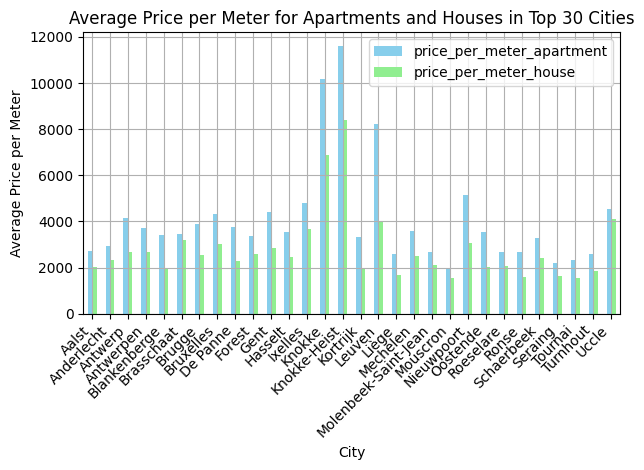
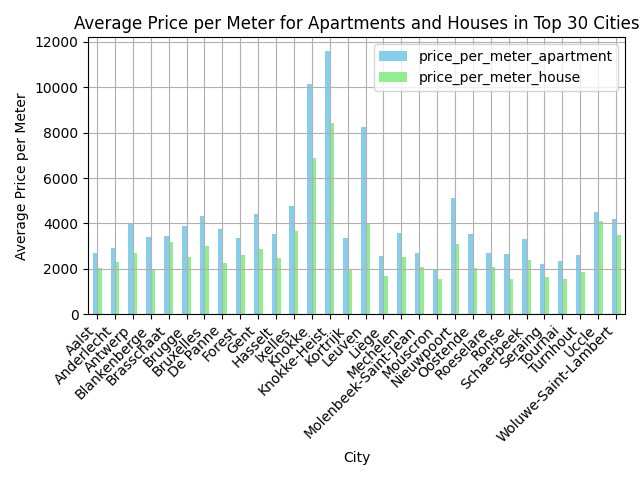
update Mahsa from  6 March

diff --git a/analysis/Distribution of Home Surface Types in Top Thirty Cities.py b/analysis/Distribution of Home Surface Types in Top Thirty Cities.py
@@ -1,0 +1,91 @@
+import pandas as pd
+import matplotlib.pyplot as plt
+
+# Read the data from the Excel file
+input_excel_file_path = r"C:\Users\afshi\Documents\GitHub\immo-eliza-DAMI-analysis\data\cleaned\version 3 data.xlsx"
+try:
+    df = pd.read_excel(input_excel_file_path)
+except Exception as e:
+    print("Error:", e)
+
+# Group by locality (city) and count the number of homes for each city
+homes_per_city = df['locality'].value_counts()
+
+# Sort cities by the number of homes in descending order and select the top thirty cities
+top_thirty_cities = homes_per_city.sort_values(ascending=False).head(30)
+
+# Filter the DataFrame to include only the top thirty cities
+df_top_thirty_cities = df[df['locality'].isin(top_thirty_cities.index)].copy()
+
+# Define function to categorize surface
+def categorize_surface(surface):
+    if surface < 50:
+        return "Less than 50"
+    elif 50 <= surface < 100:
+        return "50 - 100"
+    elif 100 <= surface < 200:
+        return "100-150"
+    elif 150 <= surface < 250:
+        return "150-200"
+    elif 250 <= surface < 300:
+        return "250-300"
+    elif 300 <= surface < 350:
+        return "300-350"
+    elif 350 <= surface < 400:
+        return "350-400"
+    elif 450 <= surface < 500:
+        return "450-500"
+    elif 550 <= surface < 600:
+        return "550-600"
+    else:
+        return "Greater than 600"
+
+# Apply categorization to create a new column using .loc to avoid the warning
+df_top_thirty_cities.loc[:, 'Surface Category'] = df_top_thirty_cities['surface'].apply(categorize_surface)
+
+# Group by Surface Category and locality (city), then count the occurrences
+grouped_counts = df_top_thirty_cities.groupby(['Surface Category', 'locality']).size().unstack(fill_value=0)
+
+# Specify the order of surface categories
+surface_categories_order = [
+    "Less than 50",
+    "50 - 100",
+    "100-150",
+    "150-200",
+    "250-300",
+    "300-350",
+    "350-400",
+    "450-500",
+    "550-600",
+    "Greater than 600"
+]
+
+# Sort the grouped_counts DataFrame based on the order of surface categories
+grouped_counts_sorted = grouped_counts.reindex(surface_categories_order)
+
+# Plot each surface category and save each plot separately
+for surface_category in surface_categories_order:
+    surface_distribution = grouped_counts_sorted.loc[surface_category].sort_values()
+    plt.figure(figsize=(10, 6))
+    surface_distribution.plot(kind='bar', color='skyblue')
+    plt.title(f'Distribution of Home Surface Types in Top Thirty Cities ({surface_category})')
+    plt.xlabel('City')
+    plt.ylabel('Number of Homes')
+    plt.xticks(rotation=45)
+    plt.tight_layout()
+    plt.savefig(f'distribution_surface_{surface_category}.png')  # Save each plot with a unique filename
+    plt.close()  # Close the plot to release memory
+
+# Combine all saved plots into one image
+import glob
+import cv2
+
+# Get all saved plot filenames
+plot_filenames = glob.glob('distribution_surface_*.png')
+
+# Combine plots into one image horizontally
+images = [cv2.imread(filename) for filename in plot_filenames]
+combined_image = cv2.hconcat(images)
+
+# Save the combined image
+cv2.imwrite('combined_distribution_surface_types.png', combined_image)

diff --git a/analysis/which cities have the biggest homes in the top 30 cities.py b/analysis/which cities have the biggest homes in the top 30 cities.py
@@ -1,0 +1,72 @@
+import pandas as pd
+import matplotlib.pyplot as plt
+
+# Read the data from the Excel file
+input_excel_file_path = r"C:\Users\afshi\Documents\GitHub\immo-eliza-DAMI-analysis\data\cleaned\version 3 data.xlsx"
+try:
+    df = pd.read_excel(input_excel_file_path)
+except Exception as e:
+    print("Error:", e)
+
+# Group by locality (city) and count the number of homes for each city
+homes_per_city = df['locality'].value_counts()
+
+# Sort cities by the number of homes in descending order and select the top thirty cities
+top_thirty_cities = homes_per_city.sort_values(ascending=False).head(30)
+
+# Filter the DataFrame to include only the top thirty cities
+df_top_thirty_cities = df[df['locality'].isin(top_thirty_cities.index)]
+
+# Define function to categorize surface
+def categorize_surface(surface):
+    if surface < 50:
+        return "Less than 50"
+    elif 50 <= surface < 100:
+        return "50 - 100"
+    elif 100<= surface <150:
+        return "100-150"
+    elif 150<= surface< 200:
+        return "150-200"
+    elif 200<= surface< 250:
+        return "200-250"
+    elif 250<= surface< 300:
+        return "250-300"
+    elif 300<= surface< 350:
+         return "300-350"
+    elif 350<= surface<400:
+         return "350-400"
+    elif 400<=surface<450:
+         return "400-450"
+    elif 450<=surface<500:
+         return "450-500"
+    elif 500<=surface<550:
+         return "500-550"
+    elif 550<=surface<600:
+         return "550-600"
+    else:
+        return "Greater than 600"
+
+# Apply categorization to create a new column
+df_top_thirty_cities['Surface Category'] = df_top_thirty_cities['surface'].apply(categorize_surface)
+
+# Specify the desired order of surface categories
+surface_category_order = ["100-150", "50 - 100", "150-200"]
+
+# Group by 'locality' (city) and 'Surface Category', then count the occurrences
+grouped_counts = df_top_thirty_cities.groupby(['locality', 'Surface Category']).size().unstack(fill_value=0)
+
+# Reindex the DataFrame based on the desired order of surface categories
+grouped_counts = grouped_counts.reindex(surface_category_order, axis=1)
+
+# Plot the distribution of surface area within the top thirty cities for the specified surfaces
+ax = grouped_counts.plot(kind='bar', stacked=True, figsize=(12, 8))
+plt.title('Distribution of Surface Area in Top Thirty Cities')
+plt.xlabel('City')
+plt.ylabel('Number of Homes')
+plt.legend(title='Surface Category', bbox_to_anchor=(1, 1))
+plt.xticks(rotation=45)
+plt.tight_layout()
+
+
+
+plt.show()

diff --git a/analysis/counts of condition in 30 top cities.py b/analysis/counts of condition in 30 top cities.py
@@ -1,0 +1,50 @@
+import pandas as pd
+import matplotlib.pyplot as plt
+
+# Read the data from the Excel file
+input_excel_file_path = r"C:\Users\afshi\Documents\GitHub\immo-eliza-DAMI-analysis\data\cleaned\version 3 data.xlsx"
+try:
+    df = pd.read_excel(input_excel_file_path)
+except Exception as e:
+    print("Error:", e)
+
+# Group by locality (city) and count the number of homes for each city
+homes_per_city = df['locality'].value_counts()
+
+# Sort cities by the number of homes in descending order and select the top thirty cities
+top_thirty_cities = homes_per_city.sort_values(ascending=False).head(30)
+
+# Filter the DataFrame to include only the top thirty cities
+df_top_thirty_cities = df[df['locality'].isin(top_thirty_cities.index)]
+
+# Define function to categorize condition
+def categorize_condition(condition):
+    if condition == "TO_BE_DONE_UP":
+        return "TO_BE_DONE_UP"
+    elif condition in ["JUST_RENOVATED", "TO_RENOVATE"]:
+        return "JUST_RENOVATED"
+    elif condition == 'GOOD':
+        return "GOOD"
+    elif condition == "AS_NEW":
+        return "AS_NEW"
+    elif condition == "TO_RESTORE":
+        return "TO_RESTORE"
+
+# Apply categorization to create a new column
+df_top_thirty_cities['Condition Category'] = df_top_thirty_cities['condition'].apply(categorize_condition)
+
+# Filter out the "non specific" category
+df_filtered = df_top_thirty_cities[df_top_thirty_cities['Condition Category'] != 'non specific']
+
+# Group by locality (city) and condition category, then count the occurrences
+grouped_counts = df_filtered.groupby(['locality', 'Condition Category']).size().unstack(fill_value=0)
+
+# Plot the distribution of condition categories for each city
+grouped_counts.plot(kind='bar', stacked=True, figsize=(12, 8))
+plt.title('Distribution of Condition Categories in Top Thirty Cities (Excluding "non specific")')
+plt.xlabel('City')
+plt.ylabel('Number of Homes')
+plt.xticks(rotation=45)
+plt.tight_layout()
+
+plt.show()

diff --git a/analysis/Average Price  for Furnished status Category of Home.py b/analysis/Average Price  for Furnished status Category of Home.py
@@ -3,7 +3,7 @@ import numpy as np
 import matplotlib.pyplot as plt
 
 # Read the data from the Excel file
-input_excel_file_path = r"C:\Users\afshi\Documents\GitHub\immo-eliza-DAMI-analysis\data\cleaned\cleanedexcel_immo_77k-2.xlsx"
+input_excel_file_path = r"C:\Users\afshi\Documents\GitHub\immo-eliza-DAMI-analysis\data\cleaned\version 3 data.xlsx"
 try:
     df = pd.read_excel(input_excel_file_path)
 except Exception as e:
@@ -22,10 +22,10 @@ def categorize_furnished(isFurnished):
 df['Furnished Category'] = df['isFurnished'].apply(categorize_furnished)
 
 # Calculate price per meter
-#df['Price per Meter'] = df['price_main'] / df['surface']
+df['Price per Meter'] = df['price_main'] / df['surface']
 
 # Group by condition category and calculate mean price per meter
-price_per_meter_category = df.groupby('Furnished Category')['price_main'].mean()
+price_per_meter_category = df.groupby('Furnished Category')['Price per Meter'].mean()
 
 # Convert the index to strings
 price_per_meter_category.index = price_per_meter_category.index.astype(str)
@@ -39,7 +39,7 @@ else:
     # Plot the bar plot if the DataFrame is valid
     plt.figure(figsize=(10, 6))
     price_per_meter_category.plot(kind='bar', color='skyblue')
-    plt.title('Average Price  for Furnished/non furnished status Category of Home')
+    plt.title('Average Price per meter for Furnished/non furnished status Category of Home')
     plt.xlabel(' Furnished Category')
     plt.ylabel('Average Price ')
     plt.xticks(rotation=45)  # Rotate x-axis labels for better readability

diff --git a/analysis/Average Price per Meter for Apartments and Houses in Top 30 Cities.py b/analysis/Average Price per Meter for Apartments and Houses in Top 30 Cities.py
@@ -2,11 +2,14 @@ import pandas as pd
 import matplotlib.pyplot as plt
 
 # Read the data from the Excel file
-input_excel_file_path = r"C:\Users\afshi\Documents\GitHub\immo-eliza-DAMI-analysis\version 3 data.xlsx"
+input_excel_file_path = r"C:\Users\afshi\Documents\GitHub\immo-eliza-DAMI-analysis\data\cleaned\version 3 data.xlsx"
 try:
     df = pd.read_excel(input_excel_file_path)
 except Exception as e:
     print("Error:", e)
+
+# Define the DataFrame df
+df['locality'] = df['locality'].replace({'Antwerpen': 'Antwerp'})
 
 # Group by locality (city) and count the number of homes for each city
 homes_per_city = df['locality'].value_counts()
